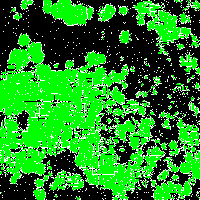
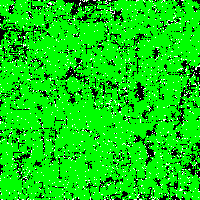
fix errors

diff --git a/index.html b/index.html
@@ -305,8 +305,25 @@
                                     }  
                                 });
                                 
-                                let my_texture_url = '/static/other/map_image.png';
-                                PIXI.Assets.load(my_texture_url).then(texture => {this.textures[my_texture_url] = texture}).catch(err => console.error(err));
+                                let nav_map_texture_url = '/static/other/map_image.png';
+                                
+                                this.textures[nav_map_texture_url].destroy();
+
+                                PIXI.Assets.load(nav_map_texture_url).then(texture => {this.textures[nav_map_texture_url] = texture}).catch(err => console.error(err));
+                                
+                                this.nav_map_sprite.destroy();
+
+                                this.nav_map_sprite = PIXI.Sprite.from(nav_map_texture_url);
+                                
+                                app.stage.addChild(this.nav_map_sprite);
+                                
+                                this.nav_map_sprite.zIndex = 5;
+                                this.nav_map_sprite.x=app.screen.width - 1.5/20.0*app.screen.width;
+                                this.nav_map_sprite.y=1.5/20.0*app.screen.width;
+                                this.nav_map_sprite.height=3/20.0*app.screen.width;
+                                this.nav_map_sprite.width=3/20.0*app.screen.width;
+                                this.nav_map_sprite.anchor.set(0.5);
+
                                 let player_obj = this.objects[this.player_id];
                                 this.nav_cross_sprite.x=app.screen.width - 3.0/20.0*app.screen.width + (player_obj.x/200.0)*3.0/20.0*app.screen.width;
                                 this.nav_cross_sprite.y= (player_obj.y/200.0)*3.0/20.0*app.screen.width;

diff --git a/type_defs/objects/chicken.py b/type_defs/objects/chicken.py
@@ -7,7 +7,6 @@ from type_defs.objects.chicken_egg import ChickenEgg
 from type_defs.objects.effects.eat_object_in_front import EatObjectInFront
 from type_defs.objects.effects.hp_depletion import HpDepletion
 from type_defs.objects.effects.lay_object import LayObject
-from type_defs.objects.fox import Fox
 from type_defs.objects.seed import Seed
 from type_defs.particles.death_particle import DeathParticle
 
@@ -34,7 +33,7 @@ class Chicken(BaseObject):
 
     def think(self):
 
-        return simple_chase(self, chase_after=[Seed], chase_from=[Fox])
+        return simple_chase(self, chase_after=["Seed"], chase_from="Fox")
 
     def die(self):
         DeathParticle(x_new=self.x, y_new=self.y)

diff --git a/common_utils/think_utils.py b/common_utils/think_utils.py
@@ -22,12 +22,20 @@ def simple_chase(parent_object, chase_after=[], chase_from=[]):
 
     intent = None
 
-    found_fox_obj = find_nearest(parent_object, chase_from)
+    found_fox_obj = None
 
-    if found_fox_obj:
-        mode = "run_away"
+    if chase_from:
+        if mode not in ["random", "run_away"]:
+
+            found_fox_obj = find_nearest(parent_object, chase_from)
+
+            if found_fox_obj:
+                mode = "run_away"
 
     if mode == "run_away":
+        if not found_fox_obj:
+            found_fox_obj = find_nearest(parent_object, chase_from)
+
         if run_away_num == 0:
 
             run_away_dir = random.randint(0, 2) > 0

diff --git a/type_defs/objects/cow_egg.py b/type_defs/objects/cow_egg.py
@@ -2,7 +2,6 @@ import random
 
 from common_utils.common_enums import Rotations
 from type_defs.objects.base_object import BaseObject
-from type_defs.objects.cow import Cow
 from type_defs.objects.effects.turn_into import TurnInto
 
 
@@ -10,7 +9,7 @@ class CowEgg(BaseObject):
     type_name: str = "CowEgg"
     image = "static/objects/egg.png"
 
-    effects = [TurnInto(future_object_class=Cow, time_to_turn=100)]
+    effects = [TurnInto(future_object_class="Cow", time_to_turn=100)]
 
     def __init__(self, x_new: int, y_new: int):
         super().__init__(x_new, y_new)

diff --git a/type_defs/objects/seed.py b/type_defs/objects/seed.py
@@ -9,7 +9,7 @@ class Seed(BaseObject):
     type_name: str = "Seed"
     image = "static/objects/seed.png"
 
-    effects = [TurnInto(future_object_class="Grass", time_to_turn=100)]
+    effects = [TurnInto(future_object_class="Grass", time_to_turn=300)]
 
     def __init__(self, x_new: int, y_new: int):
         super().__init__(x_new, y_new)

diff --git a/type_defs/objects/cow.py b/type_defs/objects/cow.py
@@ -30,7 +30,7 @@ class Cow(BaseObject):
         )
 
     def think(self):
-        return simple_chase(self, chase_after=["Seed", "Grass"], chase_from=["Fox"])
+        return simple_chase(self, chase_after=["Seed", "Grass"], chase_from="Fox")
 
     def die(self):
         DeathParticle(x_new=self.x, y_new=self.y)

diff --git a/type_defs/objects/fox.py b/type_defs/objects/fox.py
@@ -32,7 +32,7 @@ class Fox(BaseObject):
 
     def think(self):
 
-        return simple_chase(self, chase_after=["Chicken", "Cow"], chase_from=[])
+        return simple_chase(self, chase_after=["Chicken", "Cow"], chase_from=None)
 
     def die(self):
         DeathParticle(x_new=self.x, y_new=self.y)

diff --git a/type_defs/objects/grass.py b/type_defs/objects/grass.py
@@ -17,4 +17,4 @@ class Grass(BaseObject):
             [Rotations.DOWN, Rotations.UP, Rotations.LEFT, Rotations.RIGHT]
         )
 
-    effects = [EmitObject(object_to_emit="Seed", time_to_emit=20)]
+    effects = [EmitObject(object_to_emit="Seed", time_to_emit=50)]

diff --git a/common_utils/image_utils.py b/common_utils/image_utils.py
@@ -42,4 +42,4 @@ def generate_map():
             pixels[x, y] = (r, g, b)
 
     # Save the image
-    image.save("static/other/realm.MAP_image.png")
+    image.save("static/other/map_image.png")
